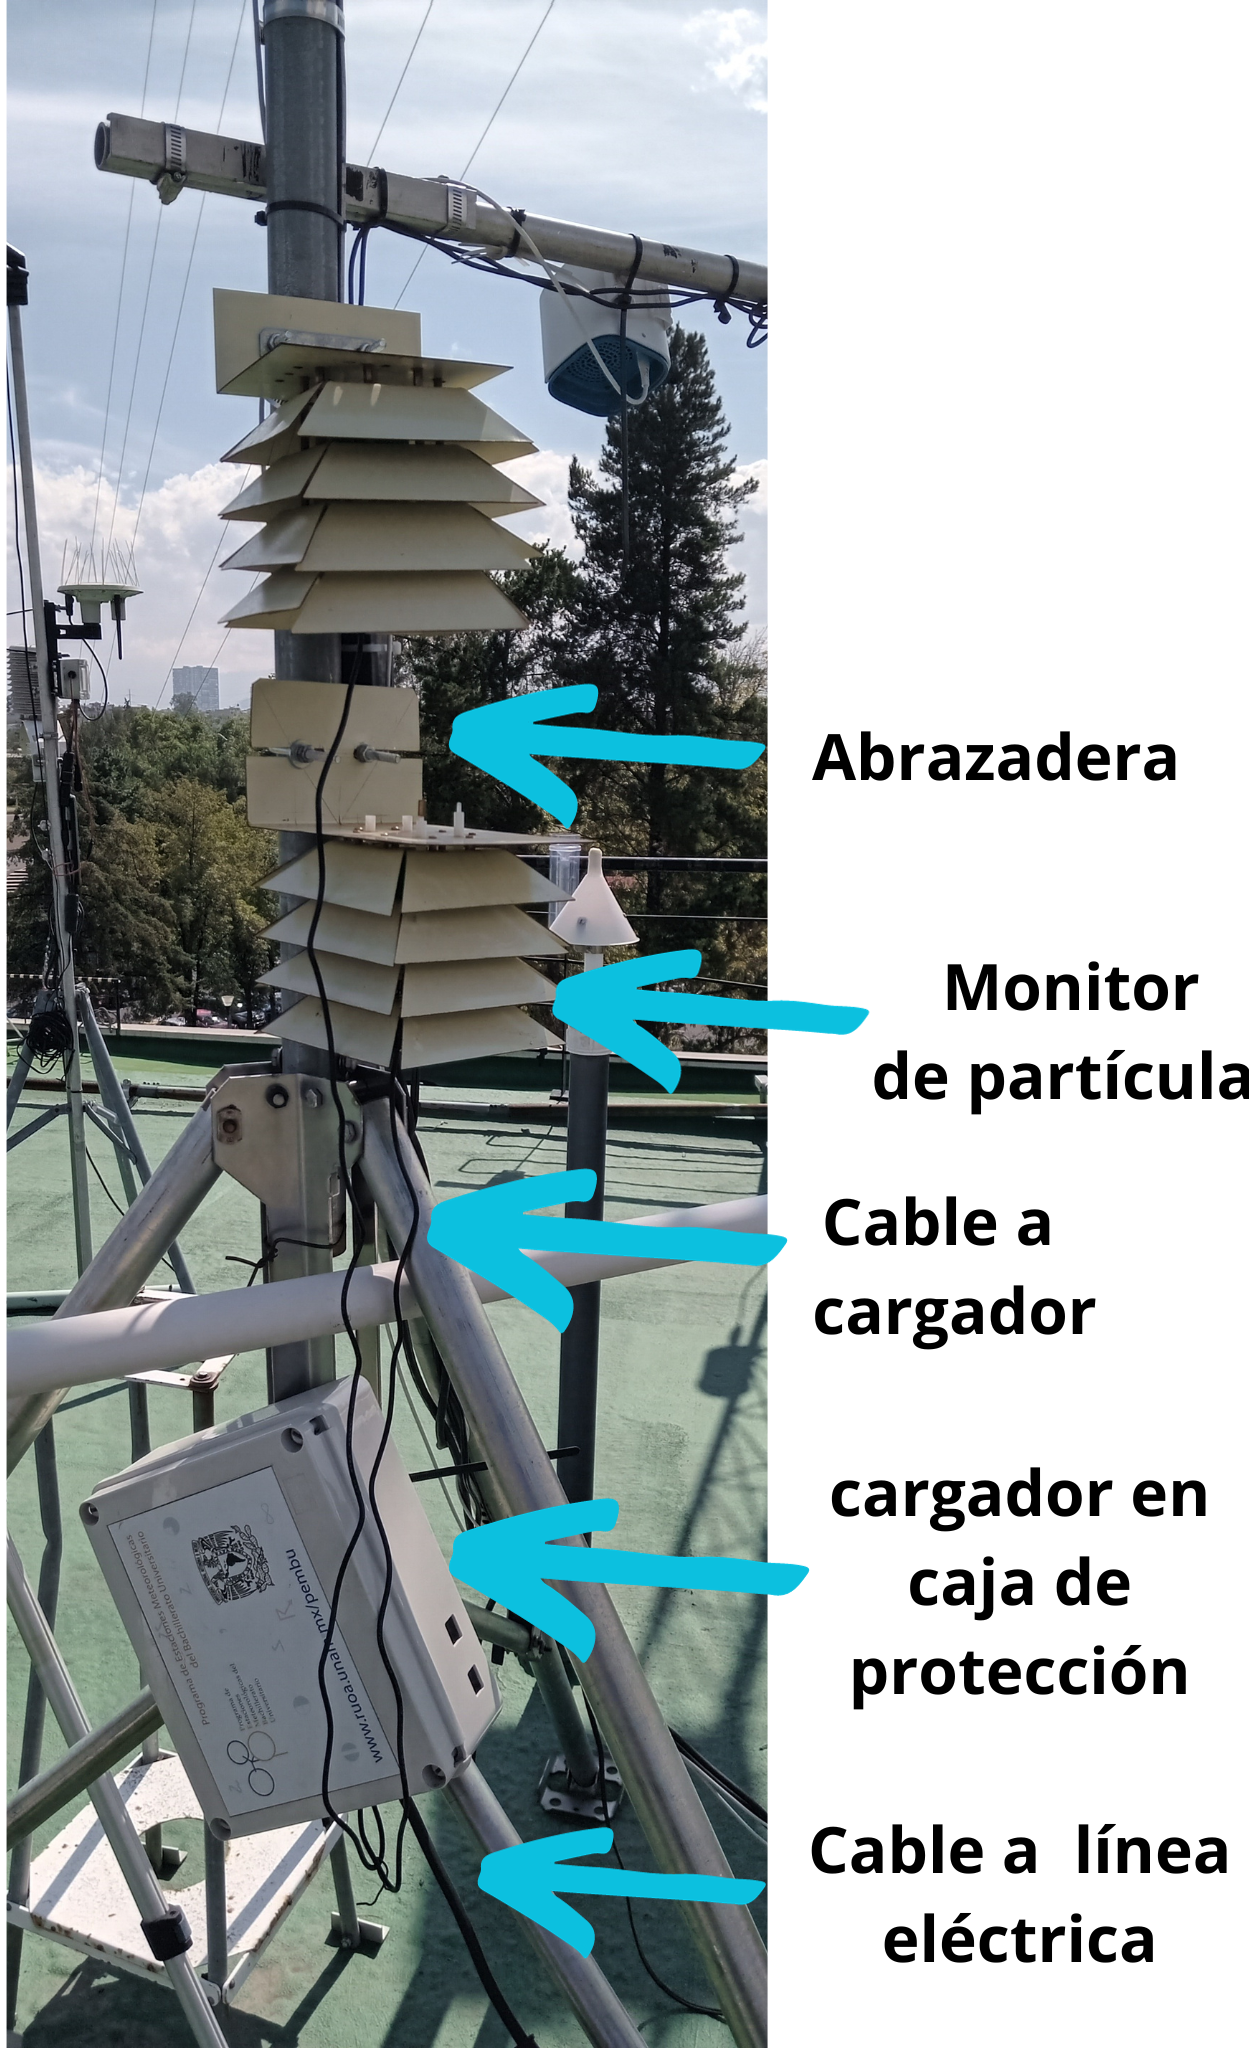
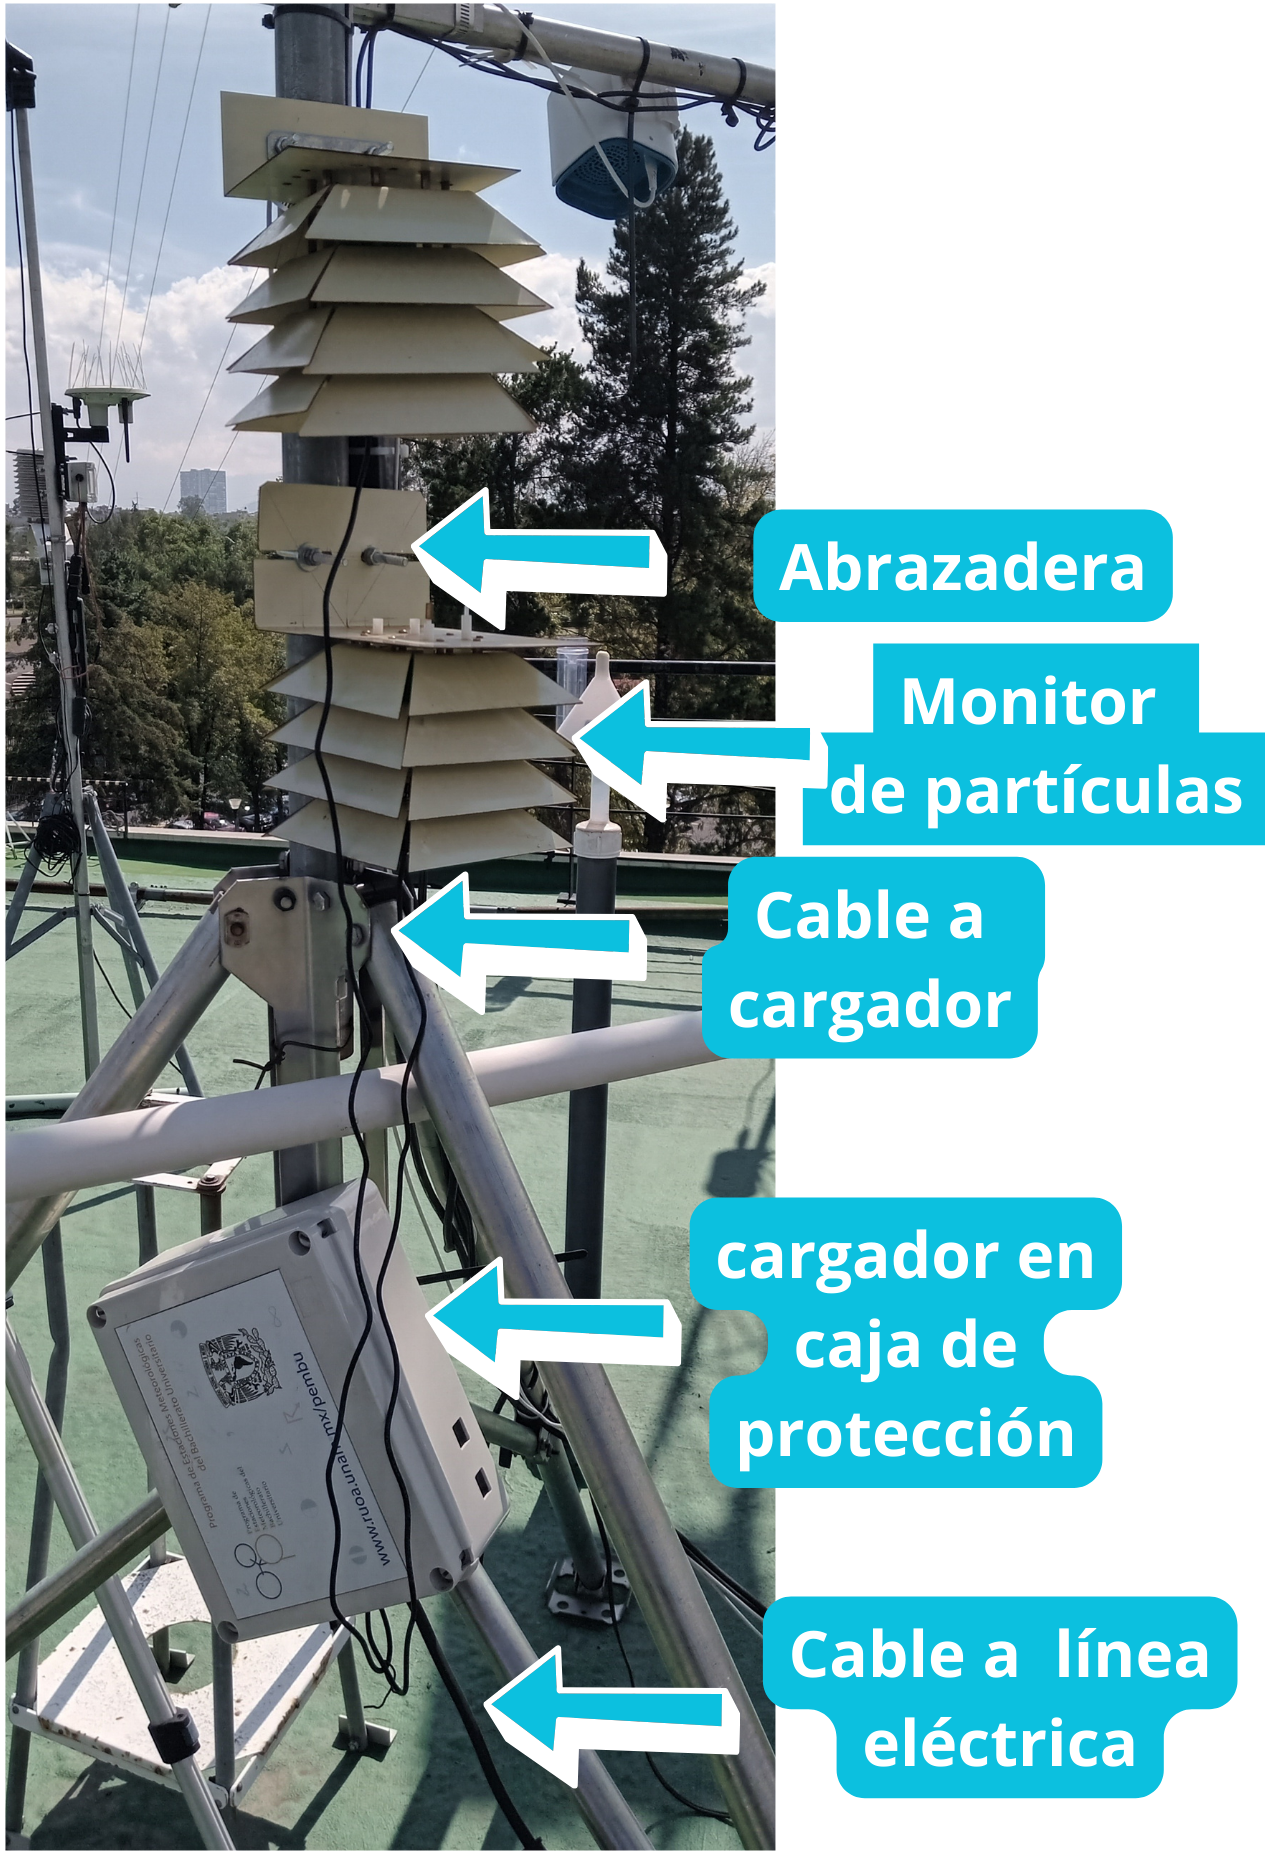
fix bug images instalacion

diff --git a/index.md b/index.md
@@ -56,7 +56,7 @@ nota: El sistema cuenta con un Timer  de reinicio en caso de que el programa se 
 
 ### Sujeción
 El monitor está pensado para fijarse a un poste vertical mediante una abrazadera tipo "U" a la placa de sujeción.
-![sujeta](/manual_monitor_pm/assets/img/instala_alimenta.png)
+![sujeta](/manual_monitor_pm/assets/img/instala_sujeta.png)
 
 nota: la placa de sujeción puede tener las perforaciones hacia arriba del monitor o hacia abajo, dependiendo de la versión. En cualquier caso, la placa de sujeción se debe colocar en la parte superior del equipo.
 
